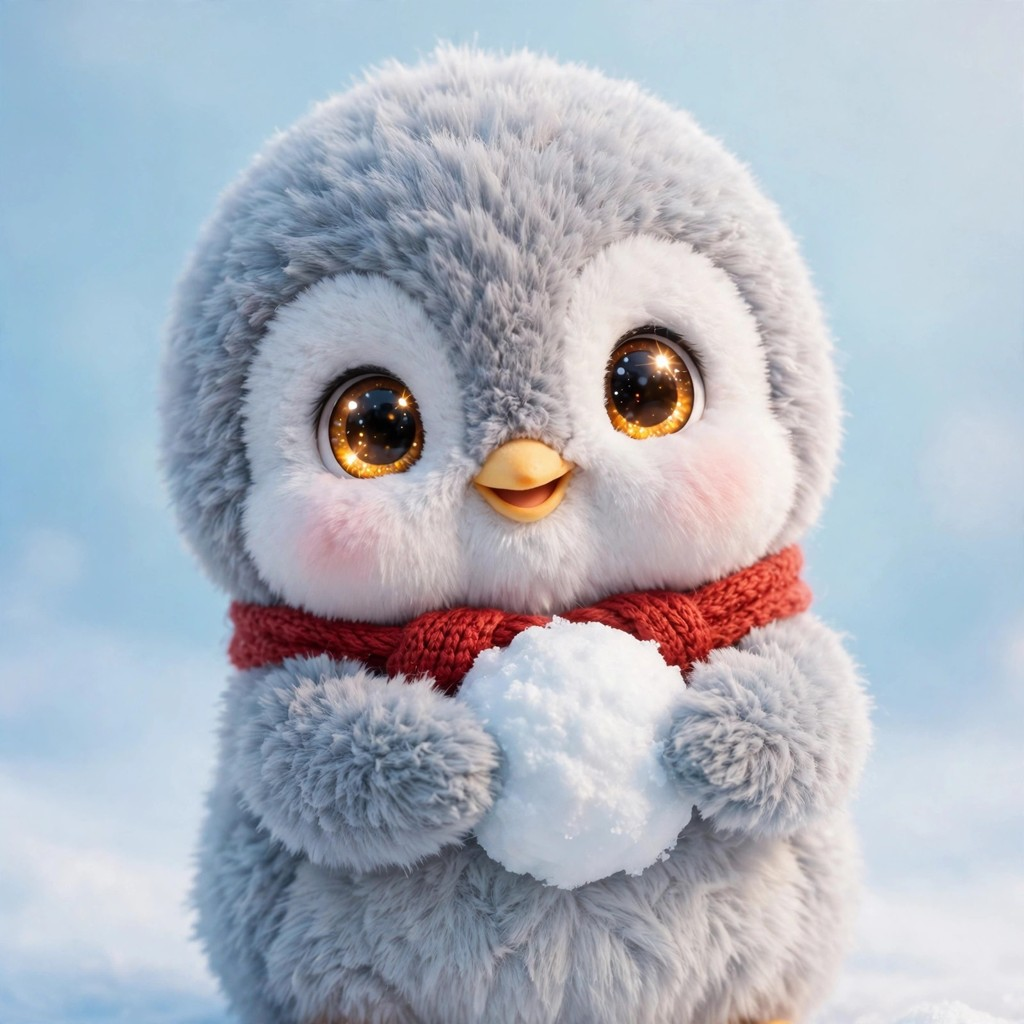
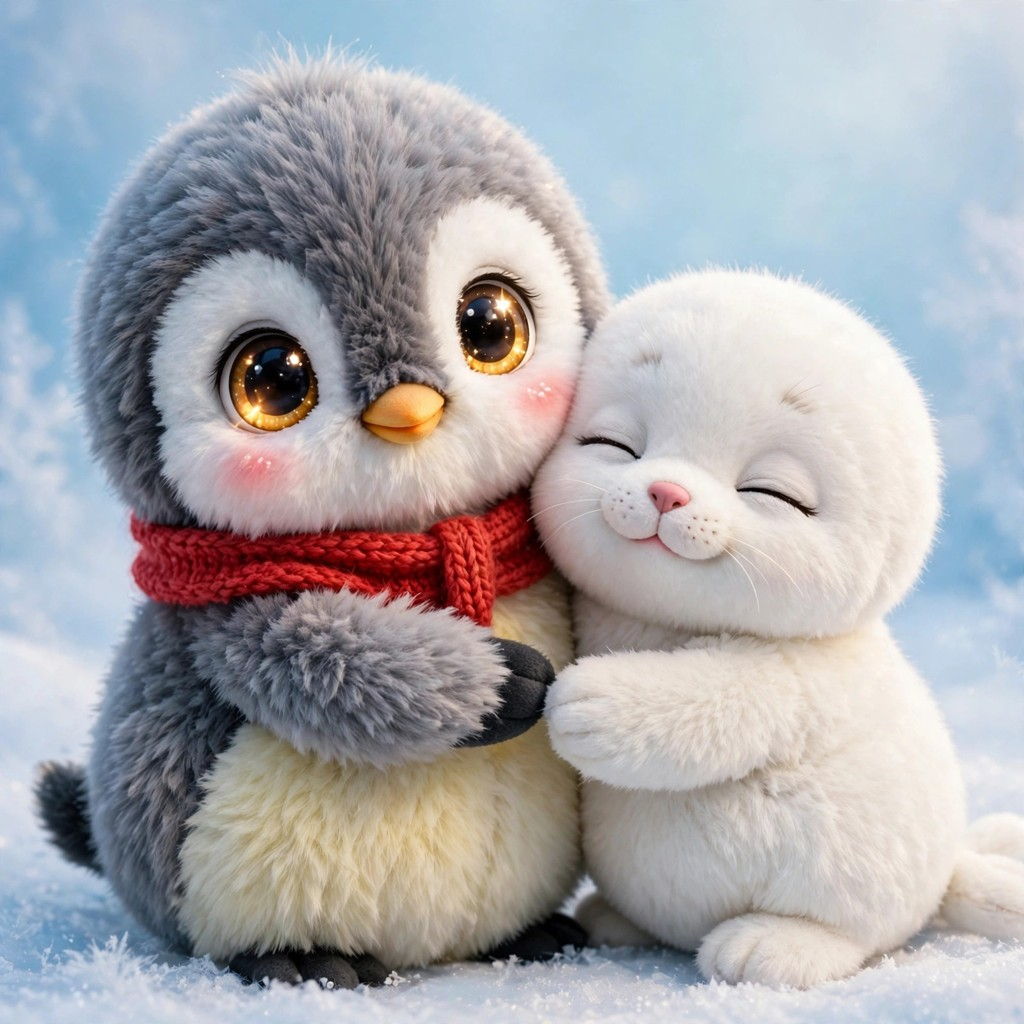
Penguin hugging a sleeping seal pup — cutest-picture-01 iteration 5

diff --git a/main.py b/main.py
@@ -1,10 +1,9 @@
-"""Copy our picture to the entry output location.
+"""Copy our picture to the competition output location.
 
-The picture bundled with this entry shows a plush baby penguin chick
-with enormous sparkling amber eyes and rosy cheeks, wearing a tiny red
-knitted scarf and hugging a snowball. This program simply copies that
-bundled JPEG to ``entry.png`` inside the output directory, so every
-run produces exactly the same bytes.
+The picture shows a plush baby penguin chick with huge sparkling amber
+eyes and a tiny red knitted scarf, pressed cheek-to-cheek against a small
+sleeping white baby seal pup on a soft snowy pastel backdrop. The program
+only copies the bundled image file, so every run writes the same bytes.
 """
 
 import hashlib
@@ -15,27 +14,23 @@ from pathlib import Path
 HERE = Path(__file__).resolve().parent
 SOURCE = HERE / "picture.jpg"
 MAX_BYTES = 1_048_576
-JPEG_MAGIC = b"\xff\xd8"
+OUT_DIR = Path(os.environ.get("MAKEFUN_OUTPUT_DIR", "/output"))
 
 
 def main() -> None:
     data = SOURCE.read_bytes()
-    if not data.startswith(JPEG_MAGIC):
+    if not data.startswith(b"\xff\xd8"):
         found = data[:2].hex() if data else "empty file"
         raise ValueError(
             f"picture.jpg is not a JPEG image: expected magic bytes ffd8, found {found}"
         )
     if len(data) > MAX_BYTES:
-        raise ValueError(
-            f"picture.jpg is {len(data)} bytes, over the {MAX_BYTES} byte limit"
-        )
-    out_dir = Path(os.environ.get("MAKEFUN_OUTPUT_DIR", "/output"))
-    out_dir.mkdir(parents=True, exist_ok=True)
-    out = out_dir / "entry.png"
+        raise ValueError(f"picture.jpg is {len(data)} bytes, over the {MAX_BYTES} byte limit")
+    OUT_DIR.mkdir(parents=True, exist_ok=True)
+    out = OUT_DIR / "entry.png"
     shutil.copyfile(SOURCE, out)
-    digest = hashlib.sha256(out.read_bytes()).hexdigest()
-    print(f"wrote {out} ({len(data)} bytes)")
-    print(f"sha256: {digest}")
+    digest = hashlib.sha256(data).hexdigest()
+    print(f"wrote {out} ({len(data)} bytes, sha256 {digest})")
 
 
 if __name__ == "__main__":

diff --git a/README.md b/README.md
@@ -1,9 +1,7 @@
 # Make the cutest picture — cutest-picture-01
 
-Entry for the **Make the cutest picture** (cutest-picture-01) competition on make.fun.
+Entry for the "Make the cutest picture" competition (cutest-picture-01) on make.fun.
 
-The picture: a plush baby penguin chick with enormous sparkling amber eyes and rosy cheeks, wearing a tiny red knitted scarf and hugging a snowball.
-
-`main.py` copies the bundled `picture.jpg` to the output directory as `entry.png`, byte for byte, on every run.
+A plush baby penguin chick with enormous sparkling amber eyes and a tiny red knitted scarf, cheek-to-cheek hugging a tiny sleeping white baby seal pup.
 
 Referral: https://make.fun/r/byvgg6sg
